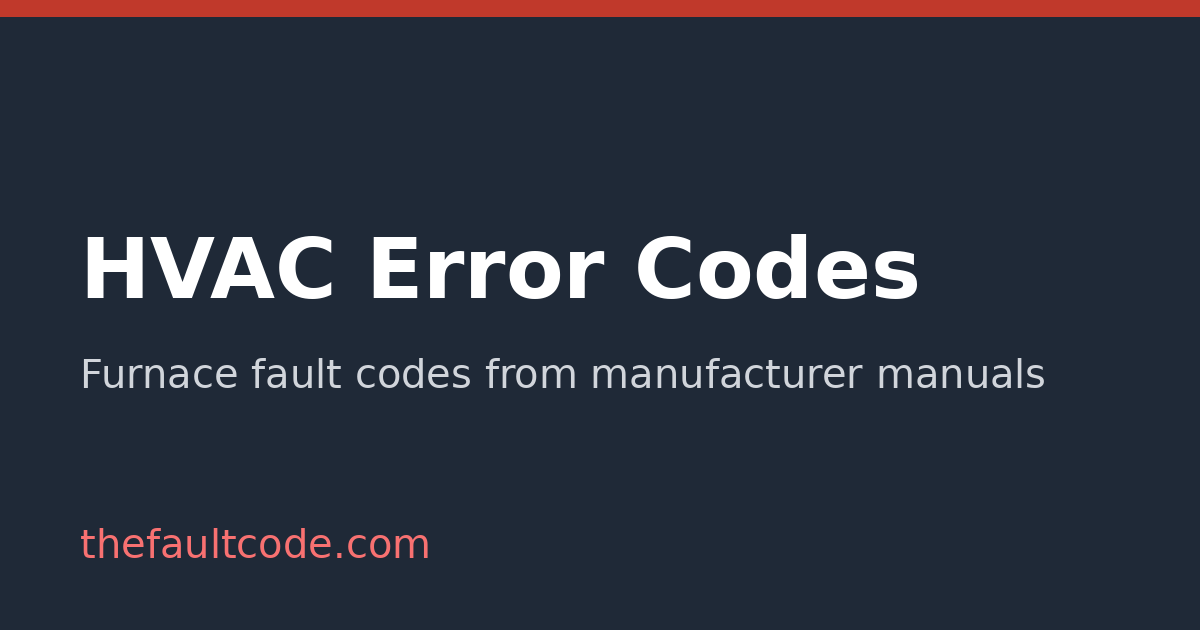
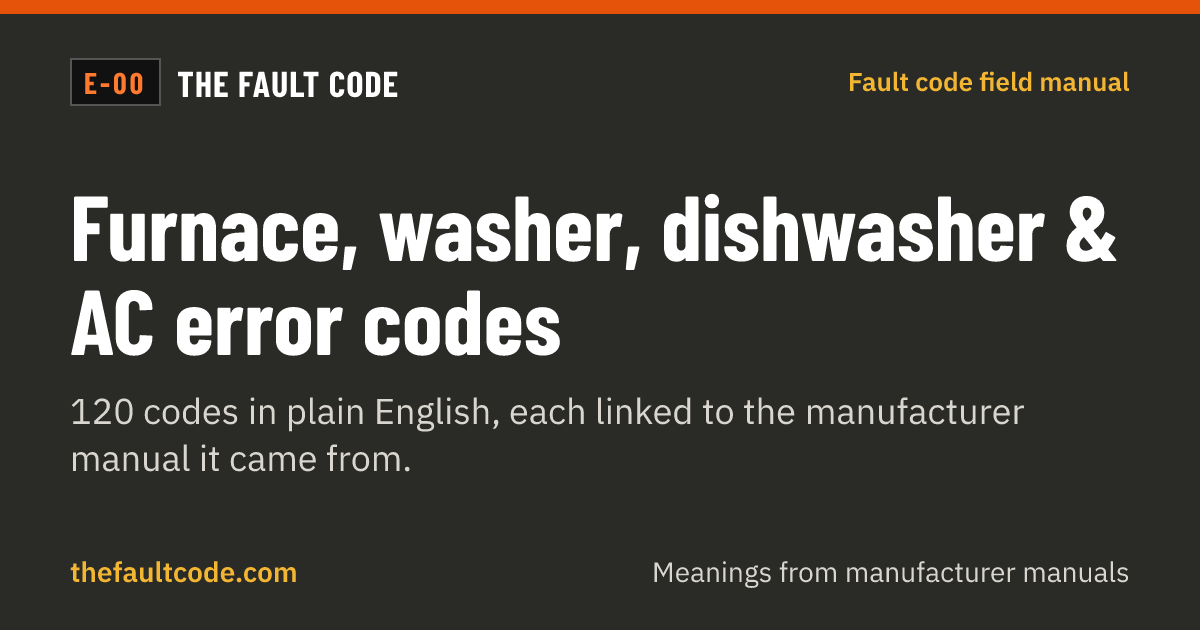
Per-page OG and Twitter images (1200x630) generated at build; og:image, twitter:image and alt text on every page; footer Dataset link

diff --git a/src/pages/og/[...path].png.ts b/src/pages/og/[...path].png.ts
@@ -1,0 +1,58 @@
+import type { APIRoute } from 'astro';
+import satori from 'satori';
+import { Resvg } from '@resvg/resvg-js';
+import { readFileSync } from 'node:fs';
+import { ogSpecs, ogPath, type OgSpec } from '../../lib/og';
+
+const font = (pkg: string, f: string) => readFileSync(`${process.cwd()}/node_modules/@fontsource/${pkg}/files/${f}`);
+const FONTS = [
+  { name: 'Barlow Condensed', data: font('barlow-condensed', 'barlow-condensed-latin-700-normal.woff'), weight: 700 as const, style: 'normal' as const },
+  { name: 'IBM Plex Sans', data: font('ibm-plex-sans', 'ibm-plex-sans-latin-400-normal.woff'), weight: 400 as const, style: 'normal' as const },
+  { name: 'IBM Plex Sans', data: font('ibm-plex-sans', 'ibm-plex-sans-latin-600-normal.woff'), weight: 600 as const, style: 'normal' as const },
+];
+// The embedded fonts only cover Latin; replace anything else so no tofu boxes appear.
+const clean = (s = '') => s.replace(/[\u2018\u2019]/g, "'").replace(/[\u201c\u201d]/g, '"').replace(/[\u2013\u2014]/g, '-').replace(/\u2026/g, '...').replace(/\u00b5/g, 'u').replace(/[^\u0020-\u007e\u00a0-\u00ff]/g, '');
+const h = (type: string, style: Record<string, any>, children?: any) => ({ type, props: { style: { display: 'flex', ...style }, children } });
+
+function card(s: OgSpec) {
+  const code = s.kind === 'code';
+  const big = clean(s.big ?? '');
+  const bigSize = big.length <= 4 ? 230 : big.length <= 7 ? 180 : big.length <= 12 ? 120 : 80;
+  const title = clean(s.title);
+  const titleSize = code ? (title.length > 80 ? 40 : 46) : title.length > 50 ? 78 : title.length > 28 ? 92 : 110;
+  return h('div', { width: 1200, height: 630, background: '#2a2a27', flexDirection: 'column', fontFamily: 'IBM Plex Sans', color: '#ffffff', position: 'relative' }, [
+    h('div', { height: 14, width: 1200, background: '#e5530a' }),
+    h('div', { flexDirection: 'column', flex: 1, padding: '44px 70px 40px 70px', justifyContent: 'space-between' }, [
+      h('div', { alignItems: 'center', justifyContent: 'space-between' }, [
+        h('div', { alignItems: 'center' }, [
+          h('div', { fontFamily: 'Barlow Condensed', fontWeight: 700, fontSize: 30, color: '#ff7a2e', background: '#111111', border: '2px solid #555555', padding: '4px 12px', letterSpacing: 3 }, 'E-00'),
+          h('div', { fontFamily: 'Barlow Condensed', fontWeight: 700, fontSize: 36, marginLeft: 16, letterSpacing: 1 }, 'THE FAULT CODE'),
+        ]),
+        h('div', { fontSize: 26, color: '#f2b632', fontWeight: 600 }, clean(s.kicker)),
+      ]),
+      code
+        ? h('div', { flexDirection: 'column' }, [
+            h('div', { fontFamily: 'Barlow Condensed', fontWeight: 700, fontSize: bigSize, lineHeight: 1, color: '#ff7a2e', letterSpacing: 4 }, big),
+            h('div', { fontWeight: 600, fontSize: titleSize, lineHeight: 1.2, marginTop: 18 }, title),
+          ])
+        : h('div', { flexDirection: 'column' }, [
+            h('div', { fontFamily: 'Barlow Condensed', fontWeight: 700, fontSize: titleSize, lineHeight: 1.02, color: '#ffffff' }, title),
+            h('div', { fontSize: 36, lineHeight: 1.3, color: '#d8d6cf', marginTop: 22 }, clean(s.sub)),
+          ]),
+      h('div', { justifyContent: 'space-between', alignItems: 'center', fontSize: 28 }, [
+        h('div', { color: '#f2b632', fontWeight: 600 }, 'thefaultcode.com'),
+        h('div', { color: '#d8d6cf' }, 'Meanings from manufacturer manuals'),
+      ]),
+    ]),
+  ]);
+}
+
+export async function getStaticPaths() {
+  const specs = await ogSpecs();
+  return [...specs.entries()].map(([path, spec]) => ({ params: { path: ogPath(path).replace(/^\/og\//, '').replace(/\.png$/, '') }, props: { spec } }));
+}
+export const GET: APIRoute = async ({ props }) => {
+  const svg = await satori(card(props.spec as OgSpec) as any, { width: 1200, height: 630, fonts: FONTS });
+  const png = new Resvg(svg, { fitTo: { mode: 'width', value: 1200 } }).render().asPng();
+  return new Response(png, { headers: { 'Content-Type': 'image/png' } });
+};

diff --git a/src/lib/og.ts b/src/lib/og.ts
@@ -1,0 +1,49 @@
+// Open Graph / Twitter card specs: one entry per page path. Rendered to 1200x630 PNG at build by src/pages/og/[...path].png.ts.
+import { getCollection } from 'astro:content';
+import { CATEGORIES, catOf, codePath, groupCodes, typeLabel } from '../config/categories';
+import { PARTS } from '../data';
+
+export type OgSpec = { kind: 'code' | 'text'; kicker: string; title: string; sub?: string; big?: string; alt: string };
+const clip = (s: string, n: number) => (s.length <= n ? s : s.slice(0, n - 1).replace(/\s+\S*$/, '') + '…');
+
+/** Page path -> image URL path. '/' -> /og/home.png, '/goodman/ee6/' -> /og/goodman/ee6.png */
+export const ogPath = (pathname: string) => `/og/${pathname === '/' ? 'home' : pathname.replace(/^\/|\/$/g, '')}.png`;
+
+let memo: Promise<Map<string, OgSpec>> | null = null;
+export function ogSpecs(): Promise<Map<string, OgSpec>> { return (memo ??= build()); }
+
+async function build() {
+  const m = new Map<string, OgSpec>();
+  const codes = (await getCollection('codes')).filter(c => !c.data.example).map(c => c.data);
+  const guides = await getCollection('guides');
+  const groups = groupCodes(codes);
+  const text = (path: string, kicker: string, title: string, sub: string, alt?: string) =>
+    m.set(path, { kind: 'text', kicker, title, sub, alt: alt ?? `The Fault Code: ${title}. ${sub}` });
+  text('/', 'Fault code field manual', 'Furnace, washer, dishwasher & AC error codes', `${codes.length} codes in plain English, each linked to the manufacturer manual it came from.`);
+  text('/codes/', 'Code index', 'All error codes', `${codes.length} furnace, washer, dishwasher and AC codes, searchable.`);
+  text('/guides/', 'Field guides', 'Furnace guides', 'Flash codes, flame sensors, filters and resets, explained from the manuals.');
+  text('/about/', 'About', 'How The Fault Code works', 'Every code is taken from a manufacturer manual or official support page, linked on each page.');
+  text('/contact/', 'Contact', 'Contact The Fault Code', 'Corrections and questions.');
+  text('/privacy/', 'Privacy', 'Privacy policy', 'What this site does and does not collect.');
+  text('/terms/', 'Terms', 'Terms of use', 'Information only, not professional advice.');
+  text('/affiliate-disclosure/', 'Disclosure', 'Affiliate disclosure', 'How links that may earn us a commission are marked.');
+  text('/parts/', 'Parts and tools', 'Parts and tools guides', `${PARTS.length} guides to the parts, tools and supplies named in the manuals.`);
+  text('/data/', 'Open data', 'Fault code dataset', `${codes.length} codes with brand, category, meaning and source link. CSV and JSON download.`);
+  for (const c of CATEGORIES) {
+    const n = codes.filter(x => catOf(x).slug === c.slug).length;
+    text(c.hub, c.name, `${c.name} error codes`, `${n} codes from official manufacturer documentation.`);
+    text(`/parts/for/${c.slug}/`, 'Parts and tools', `Parts and tools for ${c.noun} codes`, 'What each part is, how to choose and test it, when to call a pro.');
+  }
+  for (const g of groups) {
+    text(g.href, g.cat.name, `${g.brand} ${g.cat.noun} error codes`, `${g.codes.length} codes, each linked to the ${g.brand} source document.`);
+    text(`/parts/for/${g.cat.slug}/${g.brandSlug}/`, 'Parts and tools', `Parts and tools for ${g.brand} ${g.cat.noun} codes`, `Which ${g.brand} codes name each part, tool or supply.`);
+  }
+  for (const e of codes) {
+    const t = typeLabel(e);
+    m.set(codePath(e), { kind: 'code', kicker: `${e.brand} ${t} fault code`, big: e.code, title: clip(e.meaning.replace(/\.$/, ''), 120),
+      alt: `${e.brand} ${t} code ${e.code}: ${clip(e.meaning.replace(/\.$/, ''), 110)}. The Fault Code.` });
+  }
+  for (const g of guides) text(`/guides/${g.id}/`, 'Field guide', g.data.title, clip(g.data.answer, 120));
+  for (const p of PARTS) text(`/parts/${p.slug}/`, `Parts and tools · ${p.kind}`, p.name, clip(p.summary, 120));
+  return m;
+}
